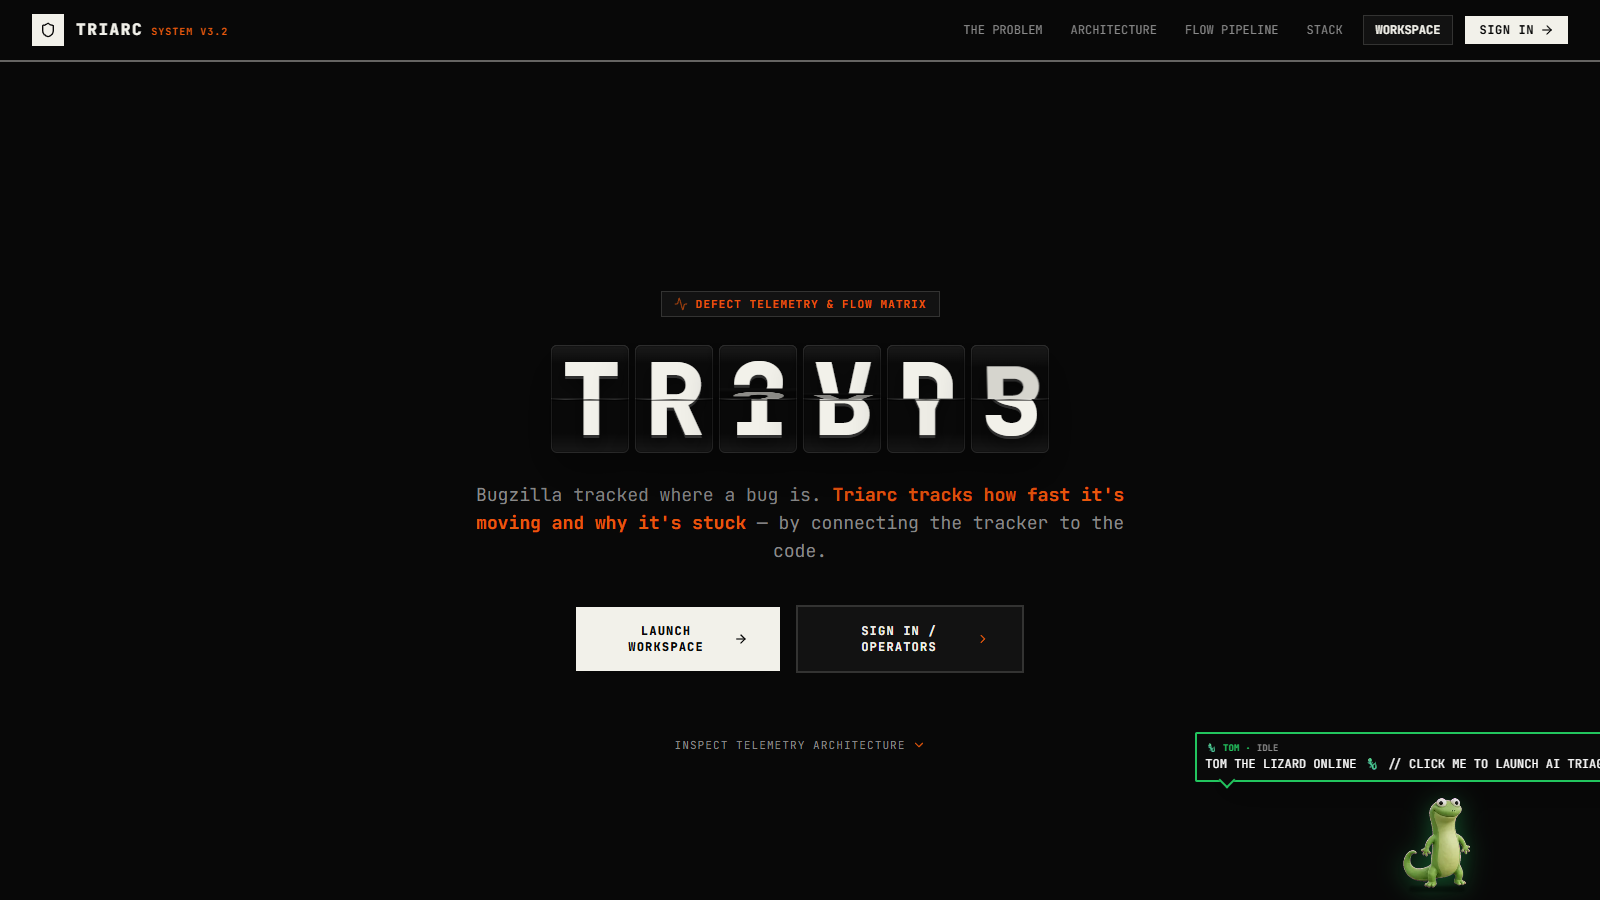
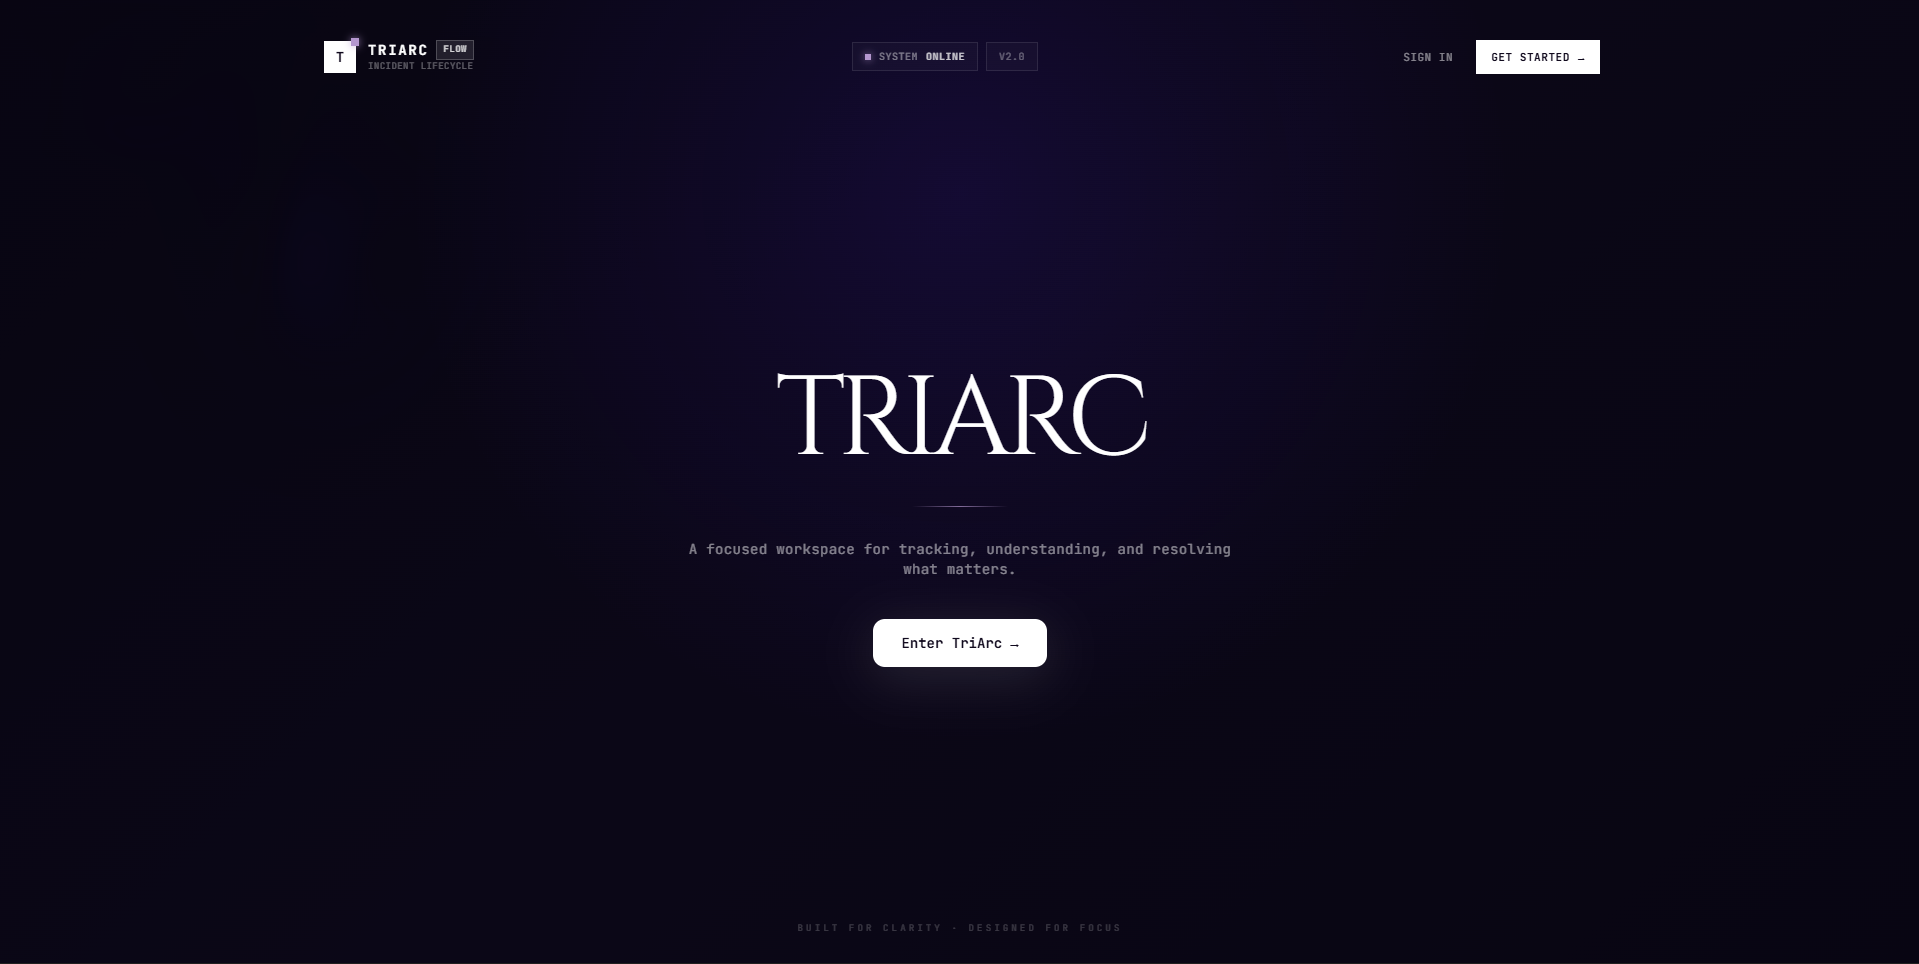
docs(readme): update visual interface gallery with latest high-res UI screenshots

diff --git a/README.md b/README.md
@@ -91,38 +91,66 @@ Modern software engineering organizations face a painful dilemma in defect track
 
 ## 📸 Visual Interface & Workspace Gallery
 
-### 1. Cyberpunk Hero & Defect Telemetry Matrix (`/`)
-*Dynamic mechanical split-flap typography, real-time defect flow telemetry positioning, instant workspace entry, and live Tom the Lizard pet monitor.*
+### 1. Liquid Ether Hero & System Gateway (`/`)
+*Interactive WebGL fluid shader particle background (`#5227FF`, `#FF9FFC`, `#B497CF`), minimalist Cinzel typography, real-time system status telemetry badges, and 1-click workspace entry.*
 
-![TRIARC Landing Hero & Defect Telemetry](readme_images/01_landing_hero.png)
+![TRIARC Landing Hero & Liquid Ether Background](readme_images/01_landing_hero.png)
 
 ---
 
-### 2. Dual-Workspace Architecture (`/workspace`)
-*Seamless fork between **Organization Workspace** (team triage, guarded state machine, request & approval inbox, row-level security) and **GitHub Project View** (continuous branch network, sleeper branch detection, live commit streams).*
+### 2. Dual-Workspace Architecture Fork (`/workspace`)
+*Seamless navigation fork between **Organization Workspace** (team triage, guarded state machine, request & approval inbox, row-level security) and **GitHub Personal Project** (continuous branch network, sleeper branch detection, live commit streams), complete with roaming Tom the Lizard copilot.*
 
 ![Dual Workspace Selector](readme_images/02_workspace_selector.png)
 
 ---
 
-### 3. Project Portfolio & Attention Command Center (`/projects`)
-*Multi-subsystem status cards (`PAY`, `SEC`, `CORE`) with real-time triage counters (**Assigned to Me**, **Incoming Requests**, **Watched Incidents**) and health indicators.*
+### 3. Personal Workspace & Branch Network (`/github`)
+*Continuous branch network visualization where trunk flows as a single continuous line, branches diverge at cutoff commits, and sleeper branches (>30 days inactive) are automatically flagged.*
 
-![Project Portfolio & Incident Lifecycle Matrix](readme_images/03_projects_portfolio.png)
+![Personal Workspace & Repository Graph](readme_images/03_repository_graph.png)
 
 ---
 
-### 4. High-Velocity Incident Intake Modal (`INTAKE: FILE_INCIDENT.SYS`)
+### 4. GitHub Telemetry Ingest & Pre-Bundled Benchmarks
+*One-click ingestion of real-world GitHub repositories with rate-limit-free offline benchmarks (`facebook/react`, `expressjs/express`) and custom public repository telemetry ingestion.*
+
+![GitHub Telemetry Ingestion Modal](readme_images/04_github_telemetry_ingest.png)
+
+---
+
+### 5. High-Velocity Incident Intake Modal (`INTAKE: FILE_INCIDENT.SYS`)
 *Instant defect filing with real-time sub-millisecond duplicate radar, tactical tagging (`#CRASH`, `#PERF`, `#REGRESSION`, `#SECURITY`, `#UX`), milestone targeting, and row-level security isolation (`GRP_SEC`).*
 
-![Incident Intake System](readme_images/04_incident_intake_modal.png)
+![Incident Intake System](readme_images/05_incident_intake_modal.png)
 
 ---
 
-### 5. Tom the Lizard AI Copilot & Live Telemetry Sentinel
-*Interactive AI Triage Copilot with 1-click diagnostic suites (**Duplicate Radar**, **SLA Bottleneck Advisor**, **Executive Brief**, **Simulate Commit**, **RBAC Audit**), cycle-time latency breakdown, and pet personality selectors (Tom Lizard, Byte Drone, Glitch Fox).*
+### 6. Project Portfolio & Attention Command Center (`/projects`)
+*Multi-subsystem status cards (`PAY`, `SEC`, `CORE`) with real-time triage counters (**Assigned to Me**, **Incoming Requests**, **Watched Incidents**) and health indicators.*
 
-![AI Copilot Drawer & Project Telemetry](readme_images/05_project_telemetry_and_ai_copilot.png)
+![Project Portfolio & Incident Lifecycle Matrix](readme_images/06_project_portfolio.png)
+
+---
+
+### 7. Incident Lifecycle Triage & Activity Digest (`/projects/:key`)
+*High-density triage matrix with expanding Activity Digest (2-day audit trail), multi-dimensional status/milestone filters, and real-time pulse sparklines.*
+
+![Project Issues & Triage Matrix](readme_images/07_project_issues_triage.png)
+
+---
+
+### 8. Git Flow Hub & Collaborator Live Telemetry (`/projects/:key?tab=commits`)
+*Real-time developer presence monitor, live commit stream with verified author signatures, commit simulator, and branch telemetry.*
+
+![Git Collaborator Telemetry & Commit Hub](readme_images/08_git_collaborator_telemetry.png)
+
+---
+
+### 9. Lifecycle Flow Analytics & Cumulative Flow Diagram (`/projects/:key/analytics`)
+*Reconstructed CFD from immutable audit logs, cycle-time latency breakdown (Triage SLA, Dev Velocity, Review Latency, Verify Latency), and predictive release milestone forecasting.*
+
+![Cumulative Flow Diagram & Lifecycle Analytics](readme_images/09_cumulative_flow_analytics.png)
 
 ---
 
